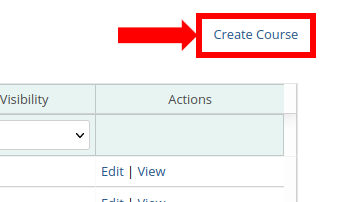
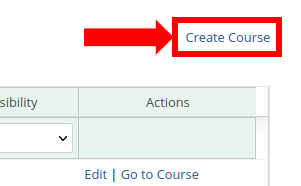
Added documentation for admins on accessing and modifying a course (#109)

Changed region(s): [[0.0, 0.4032, 0.897, 1.0], [0.2691, 0.0538, 0.9568, 0.3226], [0.0, 0.914, 0.8372, 1.0]]

diff --git a/RESTful-API.md b/RESTful-API.md
@@ -288,22 +288,26 @@ NOTE: this method is only available to AdminUser users
 - description: Create a role for a user in the given course
 - required parameters:
     - user_name (string: a user with this user name must exist)
-    - type (string: one of "Instructor", "Ta", "Student")
+    - type (string: one of "Instructor", "Ta", "Student", "AdminRole")
 - optional parameters:
     - grace_credits (integer)
     - hidden (boolean)
     - section_name (string: name of a Section for the given course)
+
+NOTE: the "AdminRole" type can only be used by AdminUser users
 
 ### POST /api/courses/:course_id/roles/create_or_unhide
 
 - description: Create a role for a user in the given course, if the given role already exists set the hidden attribute to `false` instead
 - required parameters:
     - user_name (string: a user with this user name must exist)
-    - type (string: one of "Instructor", "Ta", "Student")
+    - type (string: one of "Instructor", "Ta", "Student", "AdminRole")
 - optional parameters:
     - grace_credits (integer)
     - hidden (boolean)
     - section_name (string: name of a Section for the given course)
+
+NOTE: the "AdminRole" type can only be used by AdminUser users
 
 ## PUT /api/courses/:course_id/roles/update_by_username
 

diff --git a/Admin-Guide.md b/Admin-Guide.md
@@ -27,6 +27,15 @@ This will take you to a page that lists all the courses of this particular MarkU
 
 ![Markus Course List](images/markus-admin-course-list.png)
 
+### Accessing a course
+
+In order to access a specific course you may do so by navigating to the list of all courses and clicking on the course's associated "Go to Course" action.
+
+![Markus Course View Link](images/markus-admin-go-to-course-link.png)
+
+Doing so will take you to the course's dashboard page where you can view and access the course as if you were an instructor. This is accomplished by giving you an "AdminRole" for the course. This role is created automatically for you when you try and access a course via the UI for the first time. If you wish to create, view or update this role manually, please see the relevant API [documentation](RESTful-API.md#get-apicoursescourse_idroles).
+> :spiral_notepad: **NOTE:** Only you have the ability to view and access the Admin role. Instructors cannot see that you have this role when using either the UI or API.
+
 ### Creating and editing a course
 
 In order to create a course, click on the "Create Course" link located at the top right corner of the page.
